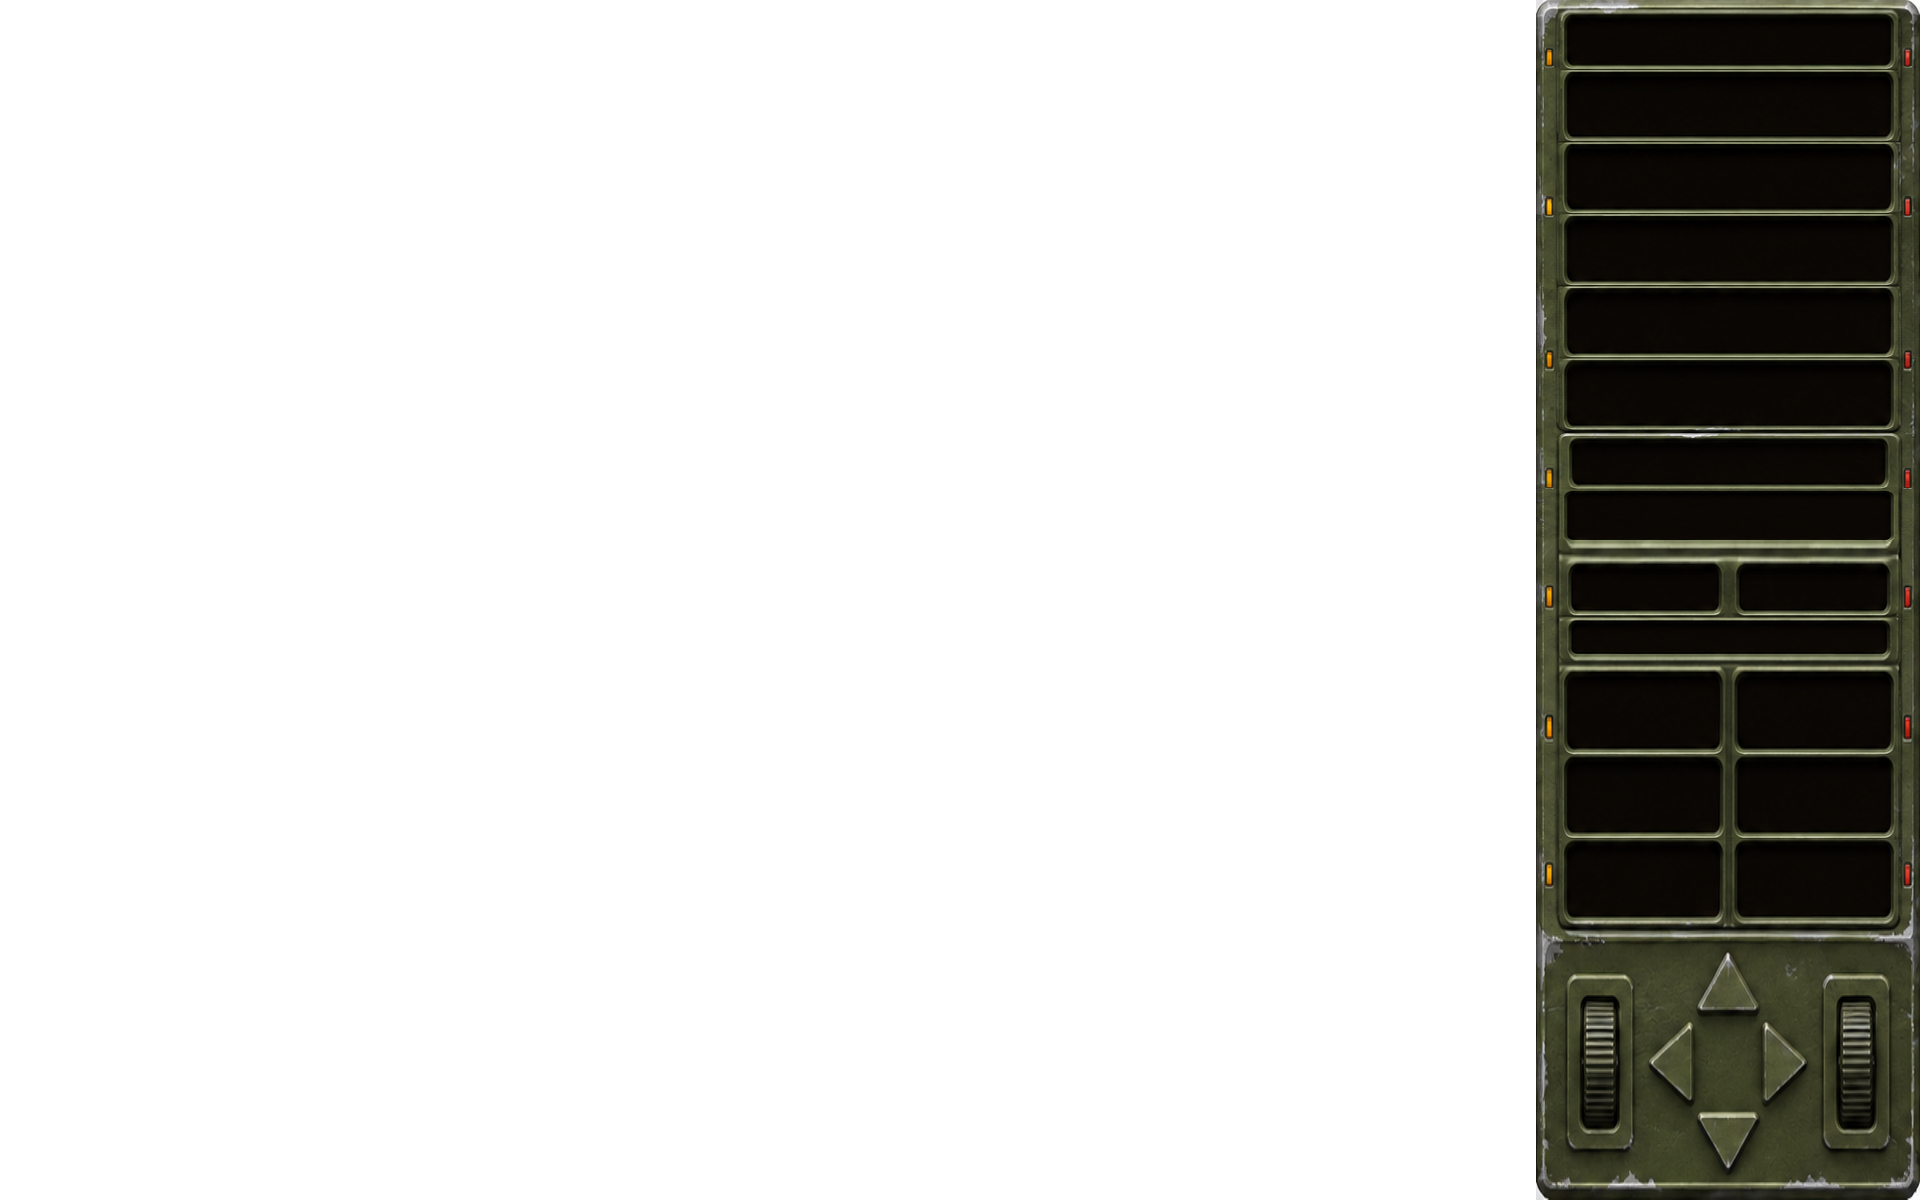
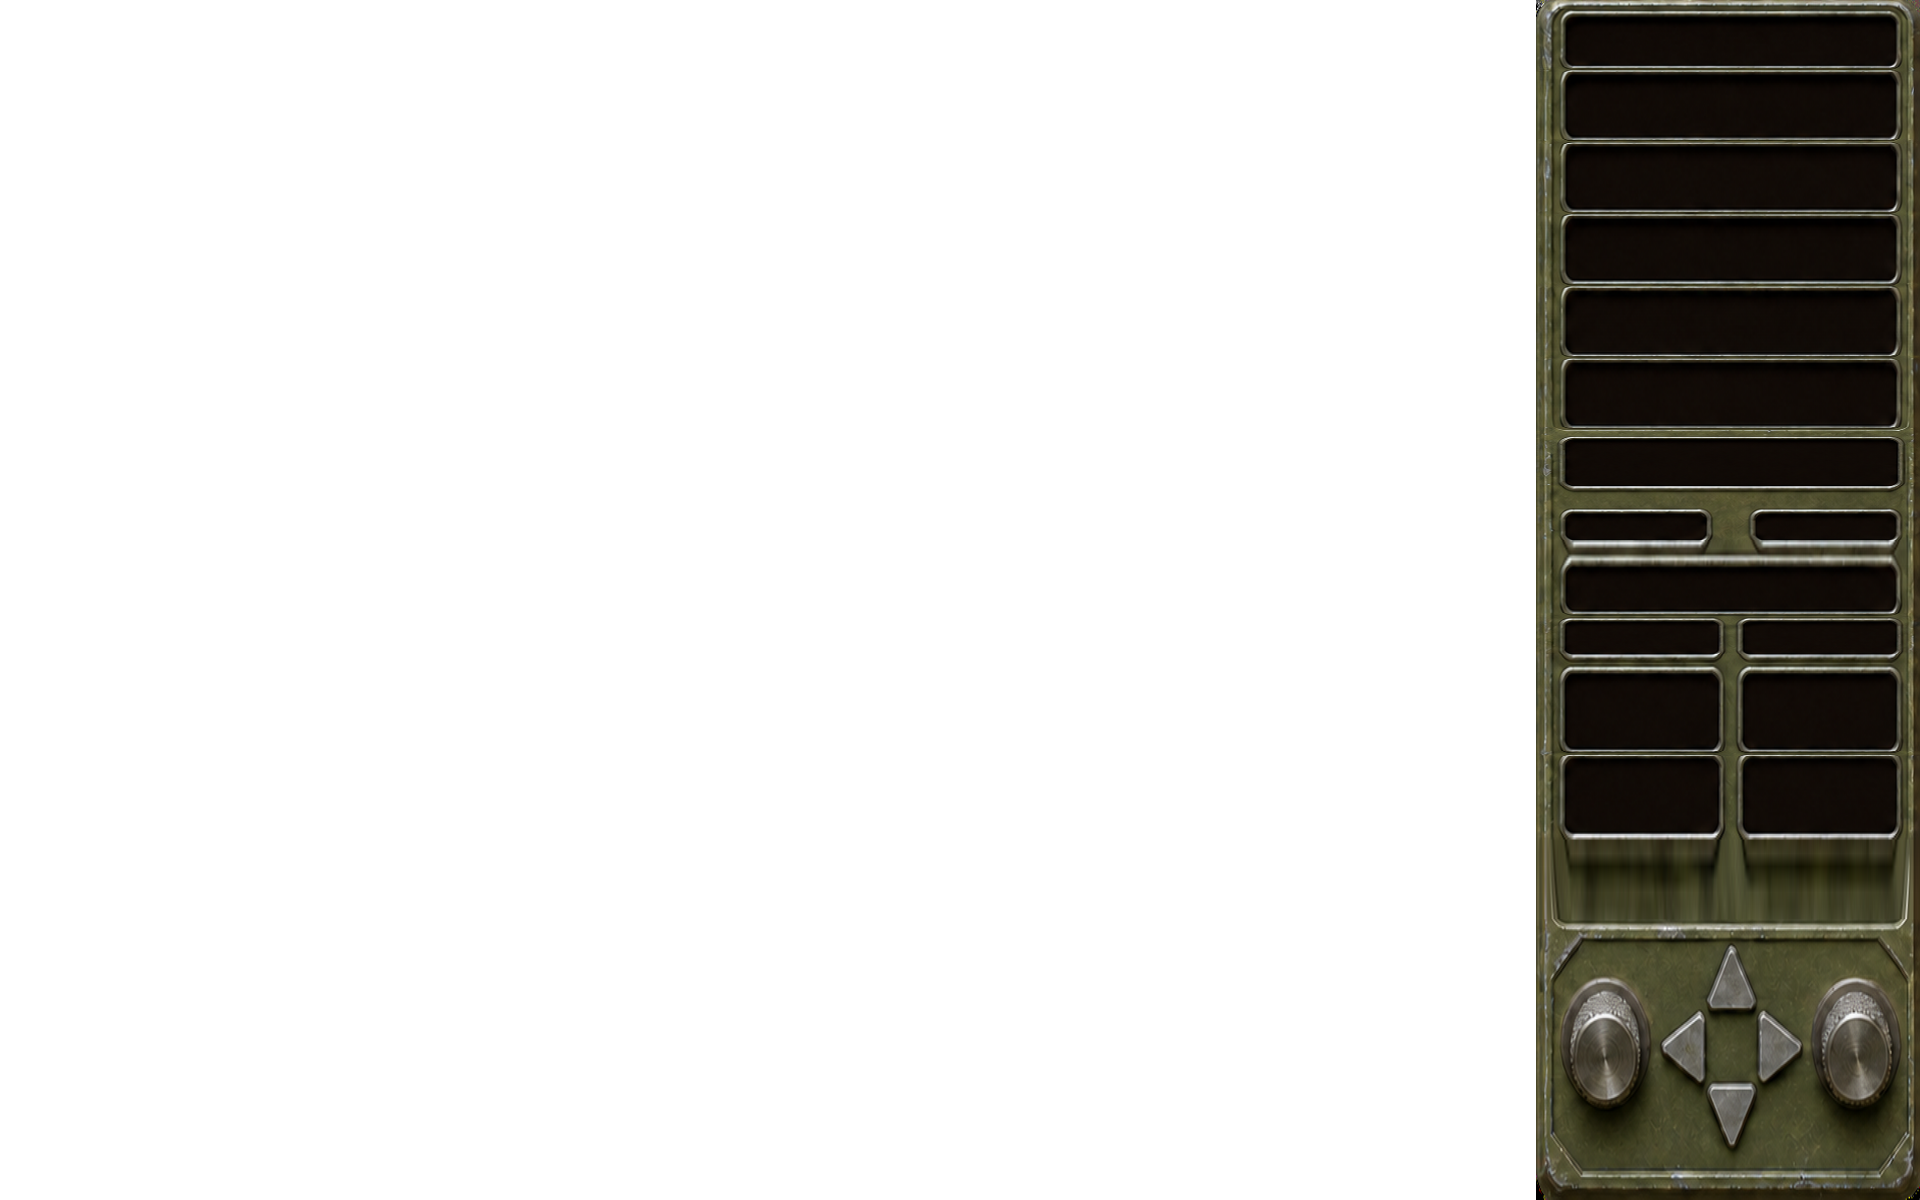
oxce-4x: second panel request, reshaped around what the AI keeps getting wrong
Three deliveries, same three geometry faults every time while the LOOK was right
every time. So the request changes shape rather than repeating itself louder:

- Ask for the PANEL STRIP ALONE at 384x1200, not a 1920x1200 canvas that is 80%
  empty. That removes "where does the panel start" and "how wide is it" as
  questions - they were wrong in all three deliveries (456 wide against 384, and
  starting 72px too far left).
- Ask for a pure magenta FF00FF background instead of transparency. Two of three
  deliveries came back as a picture OF a chequerboard - the grey squares painted
  into an RGB file with no alpha at all. Magenta is the convention ITEMS_BRIEF
  already uses for every weapon and it has never failed.
- Give every slot rectangle in the STRIP's own coordinates, computed from
  GeoscapeState's widget constructors rather than transcribed, plus a closing
  self-check: the lowest speed button's bottom edge must land at y=918.

Also added build/fit_panel_art.py, which corrects a delivery here instead of
sending it back - crop, scale to 384x1200, and a monotonic piecewise vertical
warp pinning each measured slot edge onto the engine's rectangle. It now detects
whether the source has real alpha or a painted chequer, because the fourth
delivery had real alpha and the chequer heuristic read the transparent area as
panel, kept the whole canvas and found no slots at all.

Claude-Session: https://claude.ai/code/session_014dExcDxPaqvFqz4pbppVVZ

Changed region(s): [[0.7812, 0.0, 1.0, 1.0]]

diff --git a/tools/oxce-4x/build/fit_panel_art.py b/tools/oxce-4x/build/fit_panel_art.py
@@ -1,0 +1,87 @@
+#!/usr/bin/env python3
+"""Fit a delivered geoscape panel painting onto the engine's actual geometry.
+
+    python3 build/fit_panel_art.py <delivered.png> <out_hi.png>
+
+Three deliveries in, the graphics AI gets the LOOK right every time and the
+geometry wrong every time, in the same three ways. So this does the correcting
+rather than asking again:
+
+  crop   the panel is cut away from whatever surrounds it. Twice the
+         "transparency" came back as a painted grey chequer in an RGB file with
+         no alpha at all, so the cut is by content, not by alpha.
+  scale  to exactly 384 x 1200 - the right-hand 20% of a 1920x1200 canvas, which
+         is where GEOBORD's panel lives (base x 256..320 of 320).
+  warp   the slots drift low and the drift accumulates down the panel - 38 to 60
+         px by the bottom row, which is most of a button's height. A monotonic
+         piecewise vertical remap pins every measured slot edge onto the
+         rectangle the engine actually draws its text into.
+
+The target rectangles are computed from GeoscapeState's own widget constructors,
+not measured off a screenshot: buttons at screenWidth-63 and screenHeight/2-100
+stepping by 12, the clock block, the date rows, and six speed buttons 31x13.
+"""
+import sys
+import numpy as np
+from PIL import Image
+
+SRC, OUT = sys.argv[1], sys.argv[2]
+W, H = 320, 200
+TARGET = [(0,66),(72,138),(144,210),(216,282),(288,354),(360,426),
+          (438,486),(444,540),(564,612),(606,654),(672,750),(756,834),(840,918)]
+
+# USE ALPHA WHEN THERE IS ANY, CONTENT WHEN THERE IS NOT.
+# Deliveries have arrived both ways: RGB with a grey chequer painted into the
+# pixels, and RGBA with real transparency. Converting the second to RGB turns the
+# transparent region BLACK, which the chequer test reads as panel - so it kept the
+# whole canvas and found no slots at all.
+raw = Image.open(SRC)
+has_alpha = raw.mode in ('RGBA', 'LA') and raw.convert('RGBA').split()[3].getextrema()[0] < 250
+im = raw.convert('RGB')
+px = im.load(); w, h = im.size
+if has_alpha:
+    ap = raw.convert('RGBA').split()[3].load()
+    solid = lambda x, y: ap[x, y] > 128
+    print('source has real alpha - cropping by it')
+else:
+    solid = lambda x, y: not (px[x, y][0] > 190 and px[x, y][1] > 190 and px[x, y][2] > 190)
+    print('source has no alpha - cropping by content (painted chequer)')
+
+cols = [x for x in range(w) if sum(1 for y in range(0, h, 7) if solid(x, y)) > h // 14]
+rows = [y for y in range(h) if sum(1 for x in range(min(cols), max(cols), 7) if solid(x, y)) > (max(cols)-min(cols)) // 14]
+panel = im.crop((min(cols), min(rows), max(cols)+1, max(rows)+1)).resize((384, max(rows)-min(rows)+1), Image.LANCZOS)
+ph = panel.height; ppx = panel.load()
+print('panel cropped from x %d..%d, set to 384 wide, height %d' % (min(cols), max(cols), ph))
+
+dark = [sum(1 for x in range(0, 384, 3) if sum(ppx[x, y]) < 170) for y in range(ph)]
+thr = max(dark) * 0.45
+bands = []; s = None
+for y, v in enumerate(dark):
+    if v >= thr and s is None: s = y
+    elif v < thr and s is not None:
+        if y - s > 4: bands.append((s, y))
+        s = None
+print('slot bands found: %d (expected about %d)' % (len(bands), len(TARGET)))
+
+anchors = [(0.0, 0.0)]
+for i in range(min(len(bands), len(TARGET))):
+    anchors.append((float(bands[i][0]), float(TARGET[i][0])))
+    anchors.append((float(bands[i][1]), float(TARGET[i][1])))
+anchors.append((float(ph), 1200.0))
+clean = [anchors[0]]
+for a in anchors[1:]:
+    if a[0] > clean[-1][0] + 0.5 and a[1] > clean[-1][1] + 0.5:
+        clean.append(a)
+src_y = np.array([c[0] for c in clean]); dst_y = np.array([c[1] for c in clean])
+arr = np.asarray(panel).astype(np.float32)
+inv = np.interp(np.arange(1200), dst_y, src_y)
+out = np.zeros((1200, 384, 3), np.float32)
+for yo in range(1200):
+    ys = float(inv[yo]); lo = int(np.floor(ys)); f = ys - lo
+    lo = min(max(lo, 0), ph - 1); hi = min(lo + 1, ph - 1)
+    out[yo] = arr[lo] * (1 - f) + arr[hi] * f
+
+canvas = Image.new('RGBA', (1920, 1200), (0, 0, 0, 0))
+canvas.paste(Image.fromarray(out.astype(np.uint8)).convert('RGBA'), (1536, 0))
+canvas.save(OUT)
+print('written %s  1920x1200 RGBA, panel at x=1536' % OUT)
